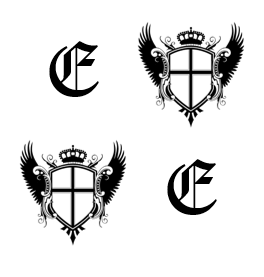
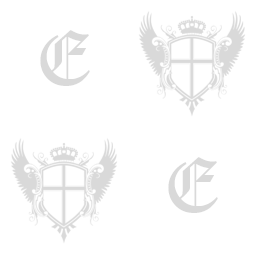
Add watermark

diff --git a/homepage.html b/homepage.html
@@ -10,35 +10,38 @@
         <link rel="stylesheet" href="css/main.css">
     </head>
     <body>
-        <!-- <img class="backgroundimg" src="images/penguins.jpg"> -->
         <div class="content">
-            <h1>THE UNIVERSAL COMPENDIUM OF NILSONIAN HISTORY</h1>
-            <hr class="sep"/>
-            <div class="navbar">
-                <a class="navbtn" href="homepage.html">Home</a>
-                <a class="navbtn" href="index.html">Glory</a>
-                <a class="navbtn" href="bio.html">Bio</a>
-            </div>
-            <div class="table">
-                <div class="widecol">
-                    <a href="bio.html">
-                        <div class="cell">
-                            <span class="biotitle">Edmund Nilson: Formative Moments</span>
-                            <hr>
-                            One cannot begin to understand Edmund’s great success in life without first understanding the moments that allowed him to become successful. Edmund’s ironclad principles were forged in the fiery blaze of his youth, tempered by heated debates against cold-hearted, greedy conservatives. Yet what was it about his childhood that made him different? What influences set him apart from the plethora of other young liberal intellectuals growing up in the 21st century? For that, we must delve deep into the Edmund’s roots: the experiences and ideas that molded him into the great leader he would become. 
-                            <br><br>
-                            (Click to read more)
-                        </div>
-                    </a>
+            <div class="watermark">
+                <div class="banner">
+                    <h1>THE UNIVERSAL COMPENDIUM OF NILSONIAN HISTORY</h1>
                 </div>
-                <div class="col">
-                    <div class="cell">
-                        <img class="imagepanel" src="images/edmund_speech_square.jpg"/>                    
+                <hr class="sep"/>
+                <div class="navbar">
+                    <a class="navbtn" href="homepage.html">Home</a>
+                    <a class="navbtn" href="index.html">Glory</a>
+                    <a class="navbtn" href="bio.html">Bio</a>
+                </div>
+                <div class="table">
+                    <div class="widecol">
+                        <a href="bio.html">
+                            <div class="cell">
+                                <span class="biotitle">Edmund Nilson: Formative Moments</span>
+                                <hr>
+                                One cannot begin to understand Edmund’s great success in life without first understanding the moments that allowed him to become successful. Edmund’s ironclad principles were forged in the fiery blaze of his youth, tempered by heated debates against cold-hearted, greedy conservatives. Yet what was it about his childhood that made him different? What influences set him apart from the plethora of other young liberal intellectuals growing up in the 21st century? For that, we must delve deep into the Edmund’s roots: the experiences and ideas that molded him into the great leader he would become. 
+                                <br><br>
+                                (Click to read more)
+                            </div>
+                        </a>
                     </div>
-                    <div class="cell">
-                        <span style="font-style:italic">"Some cultural practices need to be stamped out."</span>
-                        <br>
-                        —Edmund Nilson
+                    <div class="col">
+                        <div class="cell">
+                            <img class="imagepanel" src="images/edmund_speech_square.jpg"/>                    
+                        </div>
+                        <div class="cell">
+                            <span style="font-style:italic">"Some cultural practices need to be stamped out."</span>
+                            <br>
+                            —Edmund Nilson
+                        </div>
                     </div>
                 </div>
             </div>

diff --git a/css/main.css b/css/main.css
@@ -34,9 +34,10 @@ h2 span {
 h1 {
    font: bold 32px/100% title;
    text-align: center;
-   margin-left: 10%;
-   margin-right: 10%;
    letter-spacing: 0.02em;
+   margin: 0px;
+   padding-left: 8%;
+   padding-right: 8%;
 }
 
 .biotitle {
@@ -49,7 +50,9 @@ hr.sep {
    border-right: none;
    border-left: none;
    border-bottom: none;
-   width: 90%;
+   width: 104%;
+   margin-left: -2%;
+   margin-top: 0px
 }
 
 hr.sep:before {
@@ -75,6 +78,32 @@ hr.sep:before {
    display: block;
 }
 
+.watermark {
+   position: absolute;
+   top: 0px;
+   left: 6%;
+   width: 88%;
+   margin: auto;
+   height: auto;
+   display: block;
+   background-image: url(../images/CrestBackgroundSmall.png);
+   background-position: 0px 0px;
+   background-repeat: repeat;
+   background-attachment: scroll;
+   -webkit-background-size: 16.6666%;
+   -moz-background-size: 16.6666%;
+   -o-background-size: 16.6666%;
+   background-size: 16.6666%;
+   height: 100%;
+}
+
+.banner {
+   width: 100%;
+   background-color: #ffffff;
+   padding-bottom: 21px;
+   padding-top: 21px;
+}
+
 .navbar {
    display: block;
    margin: 30px;
@@ -93,8 +122,7 @@ hr.sep:before {
   font-family: body;
   color: #ffffff;
   font-size: 16px;
-  background: #4D54C8;
-  opacity: 0.8;
+  background: #7176d3;
   padding: 10px 10px 10px 10px;
   border: solid #000000 2px;
   text-decoration: none;
@@ -102,13 +130,13 @@ hr.sep:before {
 
 .navbtn:hover {
   text-decoration: none;
-  opacity: 1;
+  background: #4D54C8;
 }
 
 .table {
    display: table;
    margin: auto;
-   width: 88%;
+   width: 100%;
    border-spacing: 15px;
    overflow: 
 }
@@ -130,9 +158,12 @@ hr.sep:before {
    border: 1px solid blue;
    margin-bottom: 15px;
    color: #ffffff;
-   background-color: #4D54C8;
-   opacity: 0.8;
+   background-color: #7176d3;
    font-family: body;
+}
+
+a .cell:hover {
+   background-color: #4D54C8;
 }
 
 a:link {
